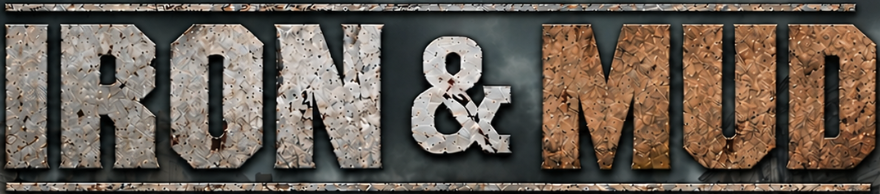
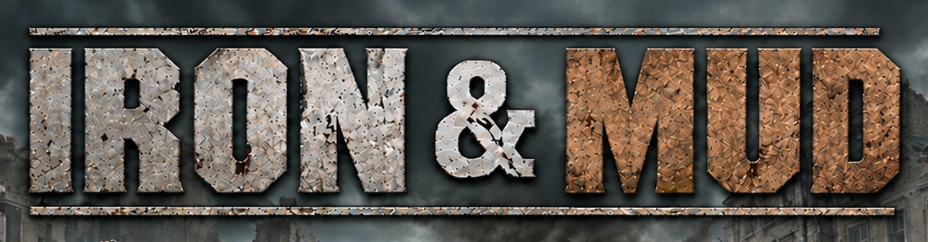
Give title artwork breathing room around letters and metal rules
Expand the title crop by 24 pixels on each side and preserve its aspect ratio in both wordmarks.

diff --git a/index.html b/index.html
@@ -25,7 +25,7 @@
   <body>
     <a class="skip-link" href="#main">Skip to content</a>
     <header class="site-header">
-      <a class="wordmark" href="#top" aria-label="Iron and Mud home"><img src="title.png" alt="Iron &amp; Mud" width="880" height="194"></a>
+      <a class="wordmark" href="#top" aria-label="Iron and Mud home"><img src="title.png" alt="Iron &amp; Mud" width="928" height="242"></a>
       <nav aria-label="Main navigation">
         <a href="#gameplay">The game</a>
         <a href="#trailer">Watch</a>
@@ -119,7 +119,7 @@
     </main>
 
     <footer class="site-footer">
-      <a class="wordmark wordmark--small" href="#top"><img src="title.png" alt="Iron &amp; Mud" width="880" height="194" loading="lazy"></a>
+      <a class="wordmark wordmark--small" href="#top"><img src="title.png" alt="Iron &amp; Mud" width="928" height="242" loading="lazy"></a>
       <p>Real-time WW2 multiplayer.</p>
       <span class="site-footer__line"></span>
     </footer>
